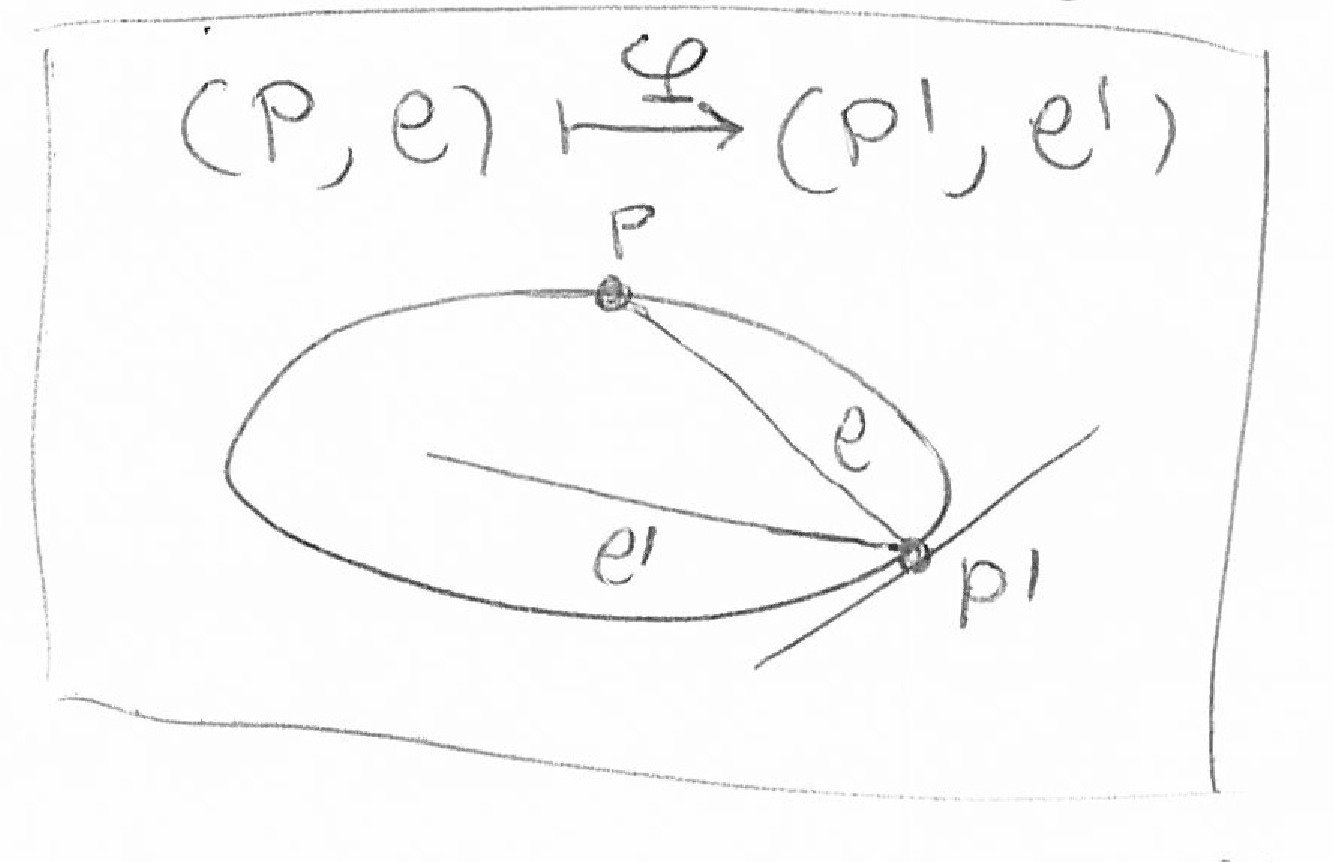
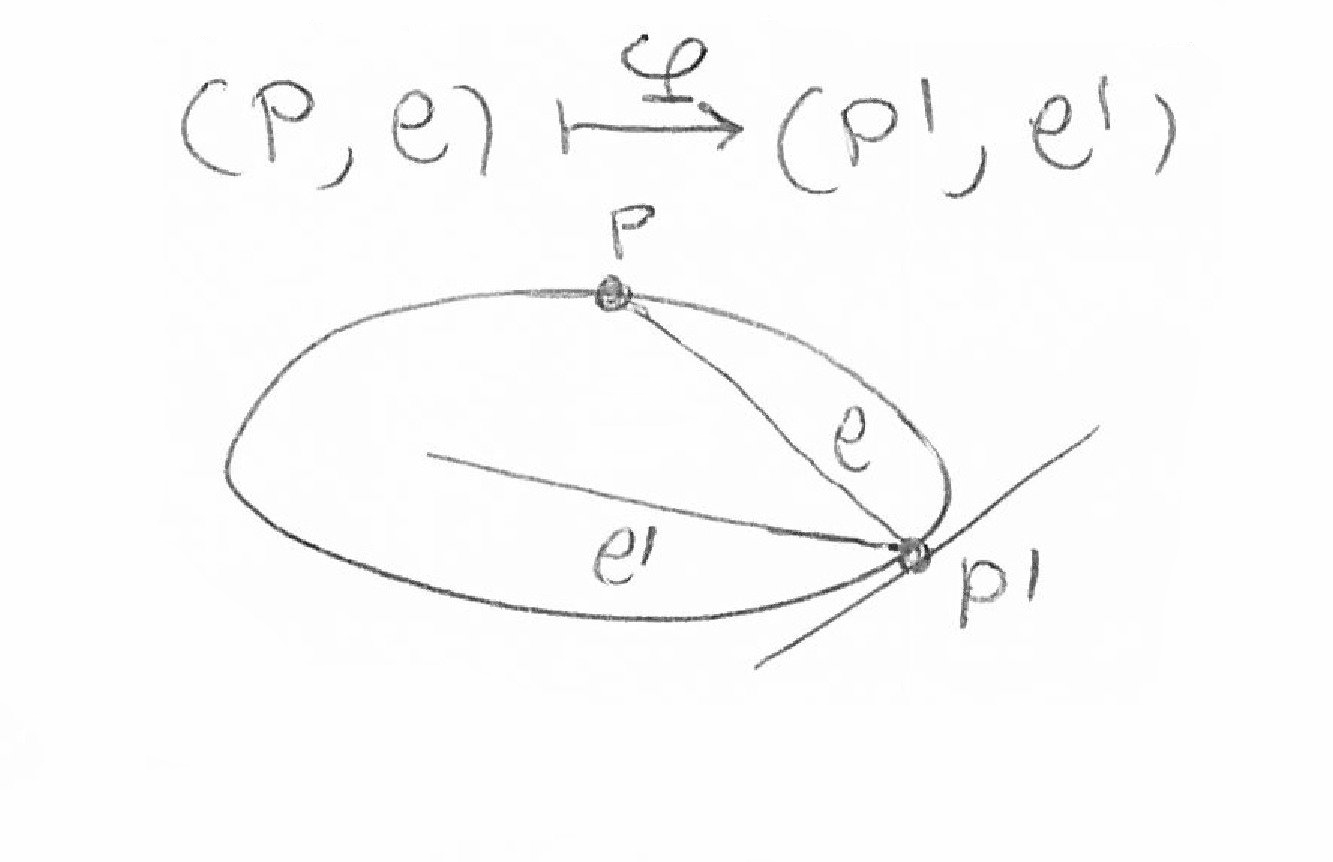
Aggiunta un'altra parte e migliorate le immagini

diff --git a/lezioni/lezione-170123.tex b/lezioni/lezione-170123.tex
@@ -26,7 +26,7 @@ parametro di ellissi che descrive tutte le possibili traiettorie.
 sul bordo dell'ellisse ed una retta $l$ con $P \in l$ e tangente alla
 caustica:
 
-\includegraphics[width=3cm]{lezione-170123-fig2}
+\includegraphics[width=6cm]{lezione-170123-fig2}
 
 Possiamo definire un'applicazione $\phi$ dalle coppie punto-retta in sè
 che è la funzione di ``evoluzione'' della traiettoria sul biliardo,
@@ -140,4 +140,49 @@ tra cui si hanno le relazioni $S^2 = (TS)^3 = \Id$
 \begin{center}
   \includegraphics[width=8cm]{lezione-170123-fig3}
 \end{center}
+
+\begin{osservazione}
+  Sarà parecchio importante sapere che se
+  $g = \lbr{\begin{array}{cc} a & b \\ c & d \\ \end{array}} \in
+  \SL_2(\bbZ)$, allora si ha $\Im (gz) = \frac{\Im z}{\abs{cz + d}^2}$.
+\end{osservazione}
+
+\begin{lemma}
+  $\SL_2 \bbZ$ è un sottogruppo discreto come sottoinsieme di $\SL_2 \bbR$
+  ed agisce in modo propriamente discontinuo su $\cH$
+\end{lemma}
+\begin{proof}
+  Sia $K \subseteq \cH$ un compatto: vogliamo mostrare che allora
+  $gK \cap K \neq \emptyset$ per al più un numero finito di $g \in G$.
+
+  Allora sia $z_0 \in K$ tale che $g z_0 \in K$. Sappiamo però che per
+  un qualunque compatto in $\cH$ $\exists \rho, \rho'$ che dipendono
+  solo dal compatto tali che $\rho' > \Im z > \rho > 0$ per un qualunque
+  $z \in K$. Se anche $g z_0 \in K$ ne segue allora che $\abs{cz_0 + d}$
+  è limitato uniformemente in $z_0$ $\implies$
+  $\Im (cz_0 + d) = c \Im z_0$ $\implies$ $c$ è limitato ed anche $d$ è
+  limitato (e la limitazione dipende solo da $K$)
+
+  $\frac{a z_0 + b}{c z_0 + d} \in K$. Allora, visto che le possibili
+  coppie $(c, d)$ sono finite, si ha
+  $a z_0 + b \in \cup_{(c, d)} (cK + d)K$ che è compatto e quindi si
+  conclude come sopra (utilizzando $\rho$ e $\rho'$)
+\end{proof}
+
+Anche se l'azione è propriamente discontinua il quoziente non è comunque
+rivestito perché ci sono dei punti fissi: ad esempio $Si = i$ e $TS
+\zeta_3 = \zeta_3$. Ma sono gli unici due punti che danno fastidio.
+
+\notamargine{Incollando i bordi del dominio fondamentale si può vedere
+  che topologicamente lo spazio delle curve ellittiche è omeomorfo a
+  $\bbC$, anche se ovviamente non può esserne biolomorfo né rivestito
+  per le conseguenze del teorema di classificazione di Riemann}
+
+Nella prossima lezione vedremo il teorema che ci mostra che $F$ come
+descritto è effettivamente un dominio fondamentale e, come curiosità:
+\begin{teorema}
+  $G = \SL_2 \bbZ$ è generato da $S$ e da $T$. Inoltre è esattamente il
+  gruppo libero su due elementi ($S$ e $T$) con le relazioni
+  $S^2 = (TS)^3 = \Id$
+\end{teorema}
 

diff --git a/custom-commands.tex b/custom-commands.tex
@@ -81,6 +81,7 @@
 \newcommand{\Span}{\text{Span }}
 \newcommand{\Id}{\text{Id}}
 \newcommand{\res}{\text{res}}
+\newcommand{\SL}{\text{SL}}
 
 % Cusu-comandi
 \newcommand{\sdR}{superficie di Riemann}
